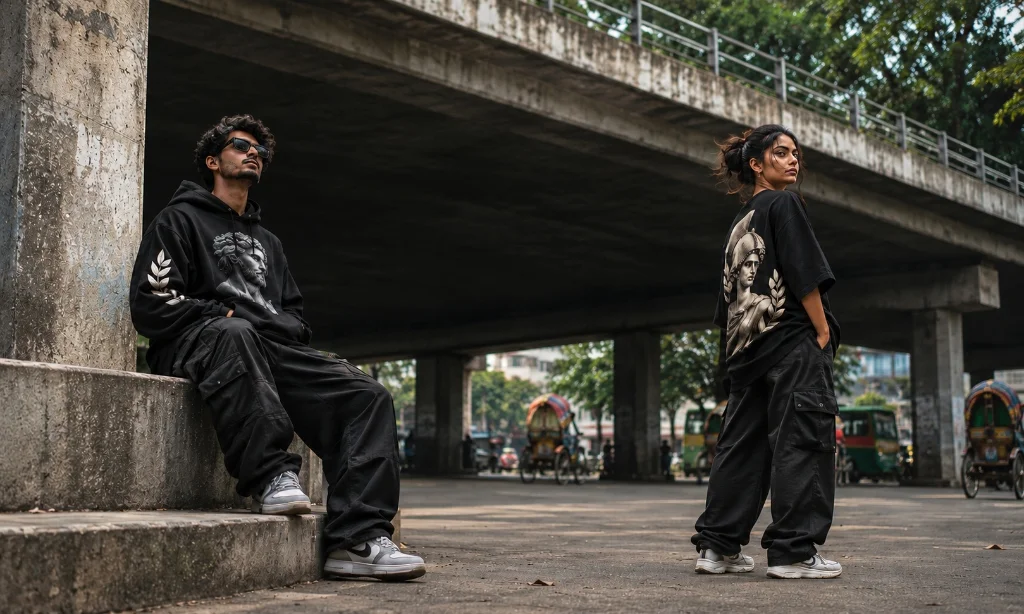
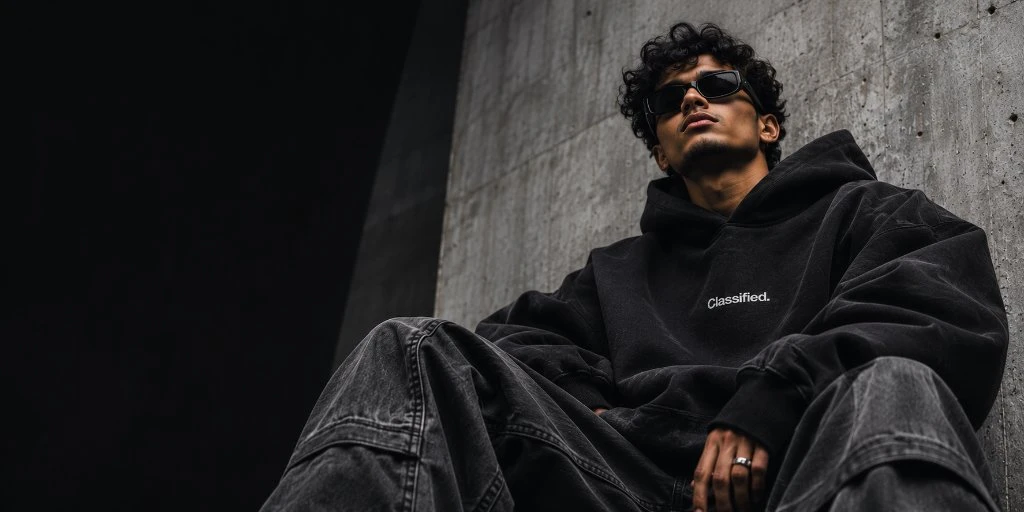
feat(storefront): update hero image with brutalist hoodie editorial shot
- Convert user-uploaded photo to WebP for hero-campaign.webp
- Position subject with object-[70%_center] for responsive framing
- Retain Dhaka city overpass photo for the About page campaign showcase

diff --git a/src/features/storefront/components/hero-section.tsx b/src/features/storefront/components/hero-section.tsx
@@ -9,12 +9,12 @@ export function HeroSection() {
     <section className="store-hero relative isolate flex min-h-[300px] items-end overflow-hidden border-b border-[#292929] sm:min-h-[440px] lg:min-h-[min(65vh,720px)]">
       <Image
         src={heroImage}
-        alt="Classified. campaign photoshoot featuring signature hoodie and oversized tee"
+        alt="Classified. campaign featuring signature hoodie and sunglasses"
         fill
         priority
         unoptimized
         sizes="100vw"
-        className="store-hero-image -z-20 object-cover object-[center_30%] sm:object-[center_35%]"
+        className="store-hero-image -z-20 object-cover object-[70%_center] sm:object-[65%_center]"
       />
       <div aria-hidden="true" className="store-hero-shade absolute inset-0 -z-10" />
       <div className="mx-auto w-full max-w-[1600px] px-4 pb-8 pt-10 sm:px-8 sm:pb-16 sm:pt-16 lg:px-16 lg:pb-[clamp(72px,12vh,150px)]">

diff --git a/src/features/storefront/components/editorial-page.tsx b/src/features/storefront/components/editorial-page.tsx
@@ -48,7 +48,7 @@ export function AboutPage() {
       {/* Hero Visual */}
       <div className="relative mt-12 aspect-[16/9] w-full overflow-hidden border border-[#262626] sm:mt-16 lg:aspect-[21/9]">
         <Image
-          src="/images/hero-campaign.webp"
+          src="/images/campaign-dhaka.webp"
           alt="Classified campaign shoot in Dhaka"
           fill
           unoptimized
